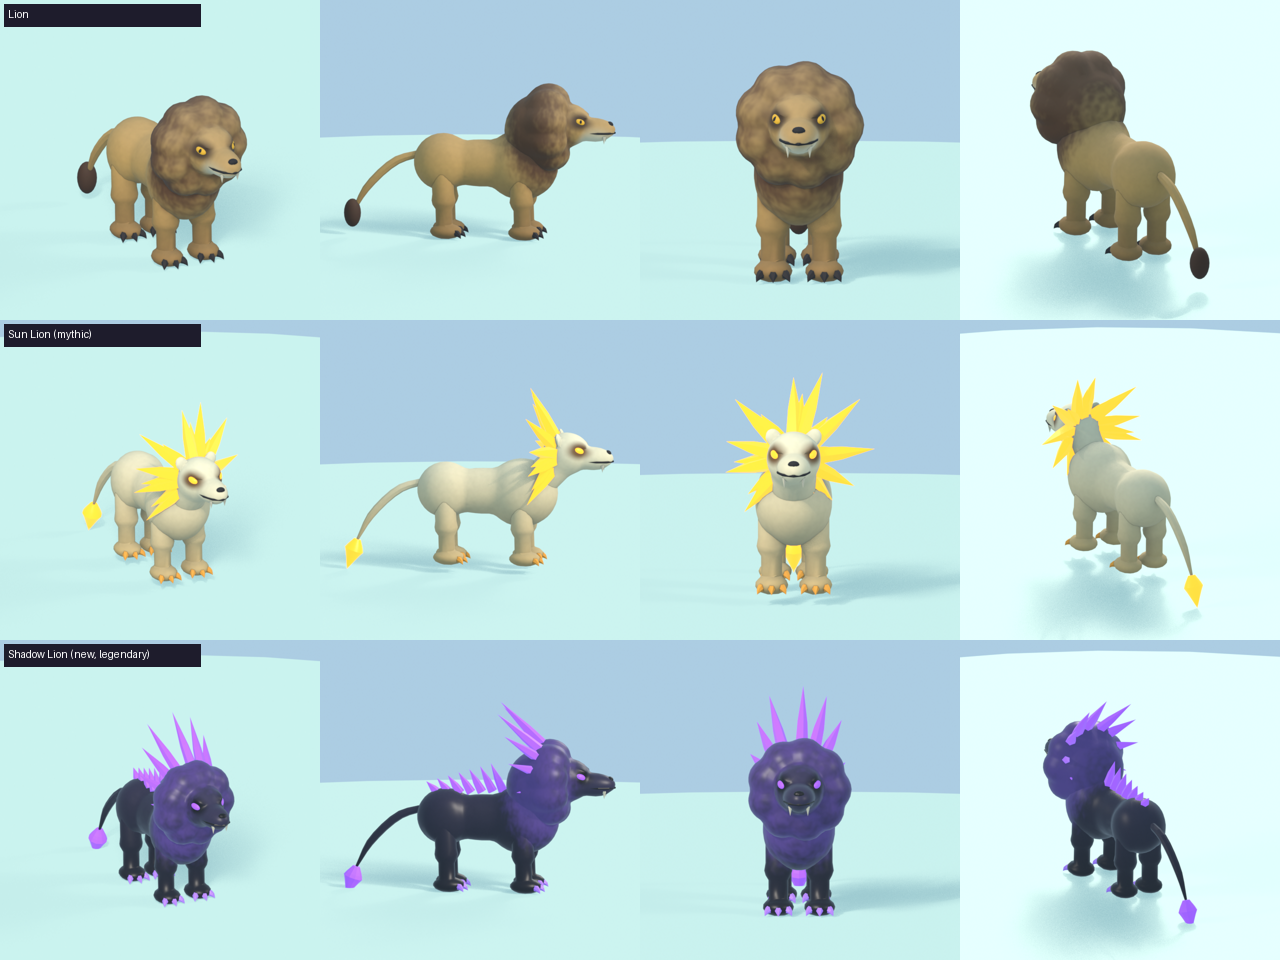
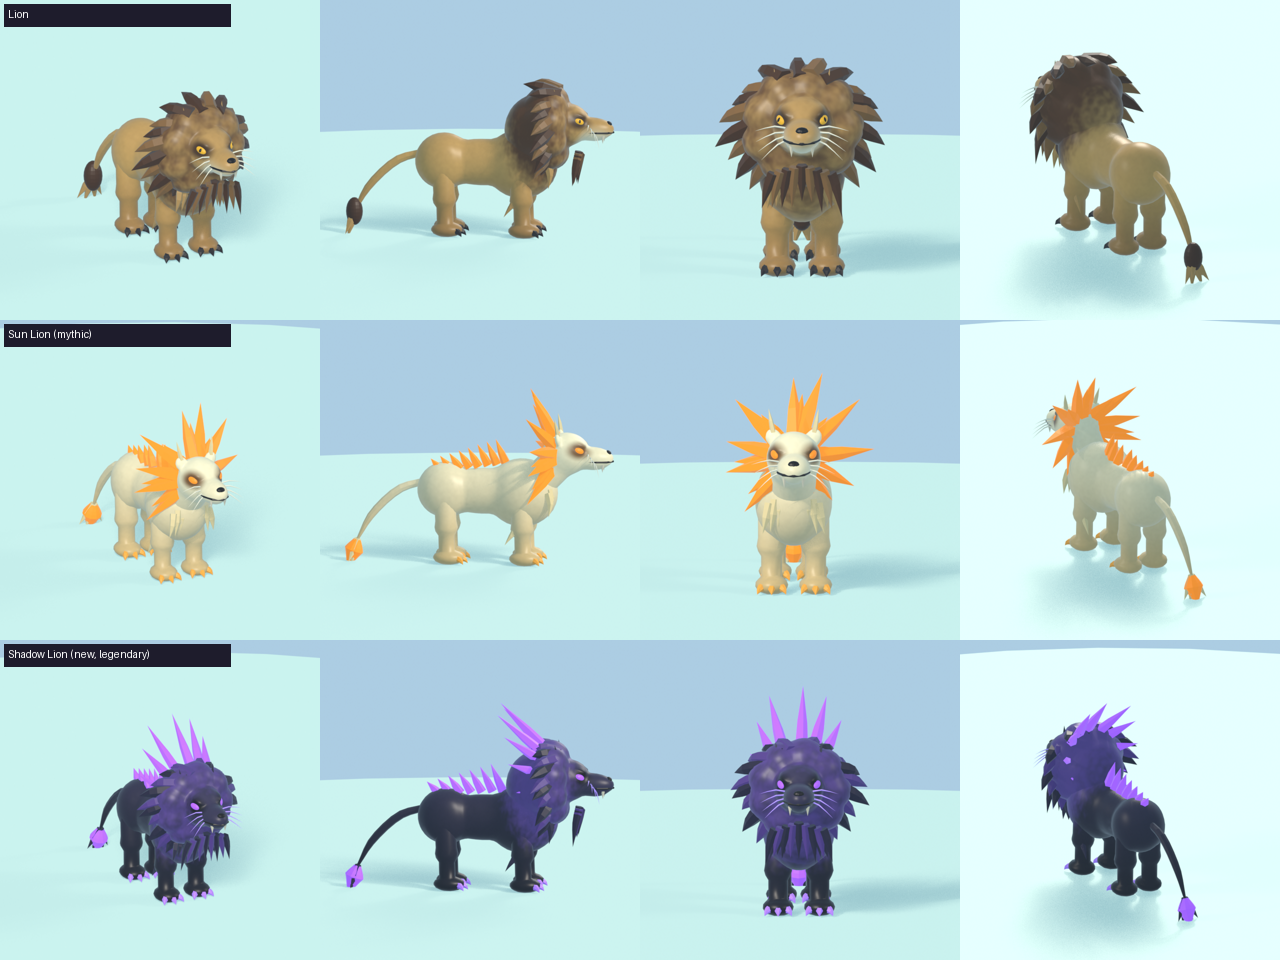
STATION-033: more detail on the three lions (locks, beard, whiskers, tufts, flame licks)

diff --git a/tools/blender/stations/assets/animals.py b/tools/blender/stations/assets/animals.py
@@ -234,6 +234,50 @@ LION = dict(chest_z=2.0, chest_r=0.96, waist_r=0.7, hip_r=0.8, len=2.15, leg_r=0
 FLAME = (255, 140, 24)
 
 
+def lion_fur(c, groups, skull, hc, coat, mane=None, whisker=(236, 226, 200), seed=3):
+    """The lion's small detail: whiskers, ear tufts, a fringe of chest and elbow tufts,
+    a tufted tail tip and, with `mane` (two colours), locks clumped out of the ruff and a beard."""
+    rng = random.Random(seed)
+    R, L = c["head_r"], c["len"]
+    cz, cr = c["chest_z"], c["chest_r"]
+    tuft, white = k.flat(coat), k.flat(whisker)
+    head, body = groups["head"], groups["body"]
+    tip = hc + Vector((0, -R * 0.75 - c["snout"], -R * 0.2))
+    for side in (-1, 1):
+        for i in range(4):  # whiskers fanned out of the muzzle
+            b = Vector((side * R * 0.3, tip.y + R * 0.55 - i * 0.04, tip.z + 0.1 - i * 0.05))
+            d = Vector((side * 1.0, -0.15 - i * 0.12, 0.12 - i * 0.2)).normalized()
+            head.append(k.horn([b, b + d * 0.35 + Vector((0, 0, 0.04)), b + d * 0.75 + Vector((0, 0.05, -0.1))], [0.022, 0.016, 0.0], white, n=4, steps=4, name="whisker"))
+        ear = Vector((side * R * 0.72, hc.y + R * 0.3, hc.z + R * 0.72))
+        head.append(k.horn([ear + Vector((0, 0, 0.1)), ear + Vector((side * 0.05, 0.04, 0.35)), ear + Vector((side * 0.1, 0.1, 0.62))], [0.07, 0.05, 0.0], tuft, n=5, steps=4, name="eartuft"))
+        for j in range(5):  # a tuft behind each elbow and down the throat
+            ex = side * (cr * 0.5 + 0.1)
+            b = Vector((ex, -0.15 + j * 0.05, cz - 0.55 - j * 0.1))
+            body.append(k.horn([b, b + Vector((side * 0.05, 0.2, -0.2)), b + Vector((side * 0.08, 0.38, -0.46))], [0.1, 0.07, 0.0], tuft, n=5, steps=4, name="elbow"))
+    for j in range(9):
+        x = (j - 4) * 0.13
+        b = Vector((x, -cr * 0.74 - 0.06, cz + 0.38 - abs(j - 4) * 0.08))
+        body.append(k.horn([b, b + Vector((x * 0.15, -0.08, -0.3)), b + Vector((x * 0.3, -0.04, -0.62 - rng.uniform(0, 0.15)))], [0.12, 0.09, 0.0], tuft, n=5, steps=4, name="chest"))
+    t = Vector(c["tail_tip"])
+    for i in range(6):  # the tail's tuft, as locks
+        a = i / 6 * math.tau
+        d = Vector((math.cos(a) * 0.3, 0.12 + rng.uniform(0, 0.1), -0.55 + math.sin(a) * 0.15))
+        groups["tail"].append(k.horn([t, t + d * 0.5, t + d * 1.1], [0.1, 0.1, 0.0], tuft, n=5, steps=4, name="lock"))
+    if mane:  # two tones of locks, clumped out of the ruff: a full ring, then a beard under the chin
+        tones = [k.flat(mane[0]), k.flat(mane[1])]
+        for i in range(24):
+            a = i / 24 * math.tau + rng.uniform(-0.08, 0.08)
+            r = rng.uniform(0.85, 1.05)
+            base = hc + Vector((math.cos(a) * r, 0.4, math.sin(a) * r))
+            d = Vector((math.cos(a) * 0.85, 0.5, math.sin(a) * 0.6 - 0.35)).normalized()
+            n = rng.uniform(0.5, 0.85)
+            head.append(k.horn([base - d * 0.25, base + d * n * 0.5 + Vector((0, 0, -0.06)), base + d * n + Vector((0, 0.05, -0.18))], [0.2, 0.17, 0.0], tones[i % 2], n=6, steps=5, name="lock"))
+        for i in range(9):
+            x = (i - 4) * 0.14
+            base = hc + Vector((x, -0.35, -0.75 - abs(i - 4) * 0.04))
+            head.append(k.horn([base, base + Vector((x * 0.2, 0.05, -0.3)), base + Vector((x * 0.4, 0.1, -0.7 - rng.uniform(0, 0.2)))], [0.12, 0.1, 0.0], tones[i % 2], n=5, steps=5, name="beard"))
+
+
 def lion(variant=False):
     c = dict(LION)
     hy, hz = -0.96 * 0.72 - 0.55, 2.0 + 0.96 * 0.42 + 0.72  # the head's middle
@@ -254,6 +298,9 @@ def lion(variant=False):
                 d = Vector((math.cos(a), 0.55, math.sin(a) * 1.05)).normalized()
                 base = hc + Vector((math.cos(a) * ring_r, 0.42, math.sin(a) * ring_r))
                 flames.append(shard(base - d * 0.2, base + d * long * rng.uniform(0.75, 1.15), 0.2, glow))
+        for i in range(8):  # licks of flame along the spine and haunches, shorter towards the tail
+            base = Vector((rng.uniform(-0.1, 0.1), 0.45 + i * 0.26, c["chest_z"] + 0.8 - i * 0.03))
+            flames.append(shard(base, base + Vector((0, 0.3, 0.7 - i * 0.05)), 0.14, glow))
         groups["head_glow"] += flames
         tip = c["tail_tip"]
         groups["tail_glow"] = [k.horn([tip, tip + Vector((0, 0.1, -0.3)), tip + Vector((0, 0.3, -0.85))], [0.1, 0.27, 0.0], glow, n=10, steps=8, name="flame")]
@@ -261,6 +308,7 @@ def lion(variant=False):
         k.zone(c["skin"], (92, 58, 34), (0, hy + 0.75, hz - 0.15), (1.5, 0.95, 1.6), soft=0.25, jag=0.15)  # the mane is darker
         k.zone(c["skin"], (236, 218, 180), (0, hy - 0.75, hz - 0.35), (0.42, 0.5, 0.36), soft=0.4)  # pale muzzle
         groups["tail"].append(k.blob(0.26, tuple(c["tail_tip"]), k.flat((70, 44, 28)), scale=(0.9, 0.9, 1.5), name="tuft"))
+    lion_fur(c, groups, skull, hc, (176, 136, 80) if not variant else (232, 206, 150), None if variant else ((74, 46, 28), (130, 92, 52)))
     return groups, c["joints"]
 
 
@@ -292,6 +340,7 @@ def shadow_lion(variant=True):
     groups["head_glow"] += shards
     tip = c["tail_tip"]
     groups["tail_glow"] = [k.horn([tip, tip + Vector((0, 0.1, -0.3)), tip + Vector((0, 0.3, -0.85))], [0.1, 0.27, 0.0], glow, n=10, steps=8, name="flame")]
+    lion_fur(c, groups, skull, hc, (44, 38, 62), ((34, 28, 54), (84, 56, 130)), whisker=(190, 150, 255), seed=7)
     return groups, c["joints"]
 
 
